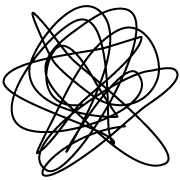
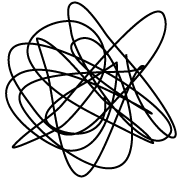
Frontmatter tweaks

diff --git a/static/css/chapters/frontmatter.css b/static/css/chapters/frontmatter.css
@@ -1297,7 +1297,7 @@ html { background: #eaead4 url('../../images/noise.png?1340400763'); }
 
 .enter-prev, .enter-next, .exit-prev, .exit-next { -webkit-animation-timing-function: ease; -moz-animation-timing-function: ease; -ms-animation-timing-function: ease; -o-animation-timing-function: ease; animation-timing-function: ease; }
 
-#home [role="main"] { -webkit-transition: background-position 300ms; -moz-transition: background-position 300ms; -ms-transition: background-position 300ms; -o-transition: background-position 300ms; transition: background-position 300ms; background: url('../../images/frontmatter/home/swing.png?1340400763') no-repeat scroll 0 -310px; background: url('../../images/frontmatter/home/swing.png?1340400763') no-repeat scroll, url('../../images/frontmatter/scribble.png?1340400763') no-repeat scroll; background-position: 0 -310px, right 50em; }
+#home [role="main"] { -webkit-transition: background-position 300ms; -moz-transition: background-position 300ms; -ms-transition: background-position 300ms; -o-transition: background-position 300ms; transition: background-position 300ms; background: url('../../images/frontmatter/home/swing.png?1340400763') no-repeat scroll 0 -310px; background: url('../../images/frontmatter/home/swing.png?1340400763') no-repeat scroll, url('../../images/frontmatter/scribble.png?1345166290') no-repeat scroll; background-position: 0 -310px, right 50em; }
 #home .intro, #home .actions, #home .instructions { overflow: hidden; }
 @media (min-width: 24em) { #home .actions .act { width: 48.78049%; float: left; margin-right: 2.43902%; }
   #home .actions .act:last-child { float: right; margin-right: 0; } }
@@ -1376,62 +1376,65 @@ html { background: #eaead4 url('../../images/noise.png?1340400763'); }
 #title .wrap2:after { content: ""; display: table; clear: both; }
 #title h1, #title h2 { font-weight: bold; }
 #title h1 { font-size: 1.5em; line-height: 1.25em; }
-#title h2 { padding-bottom: 8.125em; margin-bottom: 0.625em; background: url('../../images/frontmatter/scribble.png?1340400763') no-repeat scroll center bottom; }
+#title h2 { padding-bottom: 8.125em; margin-bottom: 0.625em; background: url('../../images/frontmatter/scribble.png?1345166290') no-repeat scroll center bottom; }
 #title a:link, #title a:visited { color: #3e3e81; }
 #title a:hover, #title a:focus, #title a:active { color: #813e81; }
 
-#copyright { background: #813e3e url('../../images/frontmatter/scribble.png?1340400763') no-repeat -3.75em -3.75em; background-image: url('../../images/frontmatter/scribble.png?1340400763'), url('../../images/noise.png?1340400763'), -webkit-linear-gradient(top, rgba(209, 160, 160, 0.25), rgba(209, 160, 160, 0)); background-image: url('../../images/frontmatter/scribble.png?1340400763'), url('../../images/noise.png?1340400763'), -moz-linear-gradient(top, rgba(209, 160, 160, 0.25), rgba(209, 160, 160, 0)); background-image: url('../../images/frontmatter/scribble.png?1340400763'), url('../../images/noise.png?1340400763'), -o-linear-gradient(top, rgba(209, 160, 160, 0.25), rgba(209, 160, 160, 0)); background-image: url('../../images/frontmatter/scribble.png?1340400763'), url('../../images/noise.png?1340400763'), -ms-linear-gradient(top, rgba(209, 160, 160, 0.25), rgba(209, 160, 160, 0)); background-image: url('../../images/frontmatter/scribble.png?1340400763'), url('../../images/noise.png?1340400763'), linear-gradient(top, rgba(209, 160, 160, 0.25), rgba(209, 160, 160, 0)); background-repeat: no-repeat, repeat; background-position: -3.75em -3.75em, 0, 0; color: #f6eded; }
+#copyright { background: #813e3e url('../../images/frontmatter/scribble.png?1345166290') no-repeat -4.375em -4.375em; background-image: url('../../images/frontmatter/scribble.png?1345166290'), url('../../images/noise.png?1340400763'), -webkit-linear-gradient(top, rgba(209, 160, 160, 0.25), rgba(209, 160, 160, 0)); background-image: url('../../images/frontmatter/scribble.png?1345166290'), url('../../images/noise.png?1340400763'), -moz-linear-gradient(top, rgba(209, 160, 160, 0.25), rgba(209, 160, 160, 0)); background-image: url('../../images/frontmatter/scribble.png?1345166290'), url('../../images/noise.png?1340400763'), -o-linear-gradient(top, rgba(209, 160, 160, 0.25), rgba(209, 160, 160, 0)); background-image: url('../../images/frontmatter/scribble.png?1345166290'), url('../../images/noise.png?1340400763'), -ms-linear-gradient(top, rgba(209, 160, 160, 0.25), rgba(209, 160, 160, 0)); background-image: url('../../images/frontmatter/scribble.png?1345166290'), url('../../images/noise.png?1340400763'), linear-gradient(top, rgba(209, 160, 160, 0.25), rgba(209, 160, 160, 0)); background-repeat: no-repeat, repeat; background-position: -4.375em -4.375em, 0, 0; color: #f6eded; overflow: hidden; }
 #copyright [role="main"] { max-width: 34.5em; margin-left: auto; margin-right: auto; padding-left: 0.5em; padding-right: 0.5em; padding-top: 2.5em; padding-bottom: 2.5em; text-shadow: #7f0000 1px 1px 0; text-align: center; }
 #copyright [role="main"]:after { content: ""; display: table; clear: both; }
 #copyright a:link, #copyright a:visited { color: #bfbfff; }
 #copyright a:hover, #copyright a:focus, #copyright a:active { color: #ffbfff; }
-#copyright h1 { font-size: 1.5em; line-height: 1.25em; margin-bottom: 0.83333em; -webkit-border-radius: 3em; -moz-border-radius: 3em; -ms-border-radius: 3em; -o-border-radius: 3em; border-radius: 3em; -webkit-box-shadow: #7f0000 1px 1px 0; -moz-box-shadow: #7f0000 1px 1px 0; box-shadow: #7f0000 1px 1px 0; text-shadow: #7f0000 -1px -1px 0; display: inline-block; padding: 0.41667em 0.83333em; background: #f6eded url('../../images/noise.png?1340400763'); color: #a96f6f; }
+#copyright h1 { font-size: 1.5em; line-height: 1.25em; margin-bottom: 0.83333em; -webkit-border-radius: 3em; -moz-border-radius: 3em; -ms-border-radius: 3em; -o-border-radius: 3em; border-radius: 3em; -webkit-box-shadow: #7f0000 1px 1px 0; -moz-box-shadow: #7f0000 1px 1px 0; box-shadow: #7f0000 1px 1px 0; text-shadow: #7f0000 -1px -1px 0; -webkit-animation: hinge 1s 10s linear both; -moz-animation: hinge 1s 10s linear both; -ms-animation: hinge 1s 10s linear both; -o-animation: hinge 1s 10s linear both; animation: hinge 1s 10s linear both; display: inline-block; padding: 0.41667em 0.83333em; background: #f6eded url('../../images/noise.png?1340400763'); color: #a96f6f; }
 #copyright h1:before, #copyright h1:after { content: "•"; }
 @media (min-width: 40em) { #copyright h1 { font-size: 2.25em; line-height: 1.11111em; margin-bottom: 0.55556em; } }
 #copyright p { margin-bottom: 1.25em; text-align: left; }
 #copyright em { font-style: italic; }
 
-#dedication { background: #ffcc99 url('../../images/frontmatter/scribble.png?1340400763') no-repeat -3.75em -3.75em; background-image: url('../../images/frontmatter/scribble.png?1340400763'), url('../../images/noise.png?1340400763'), -webkit-radial-gradient(center 7.5em, #ffdfbf, #ffcc99, #ffb972); background-image: url('../../images/frontmatter/scribble.png?1340400763'), url('../../images/noise.png?1340400763'), -moz-radial-gradient(center 7.5em, #ffdfbf, #ffcc99, #ffb972); background-image: url('../../images/frontmatter/scribble.png?1340400763'), url('../../images/noise.png?1340400763'), -o-radial-gradient(center 7.5em, #ffdfbf, #ffcc99, #ffb972); background-image: url('../../images/frontmatter/scribble.png?1340400763'), url('../../images/noise.png?1340400763'), -ms-radial-gradient(center 7.5em, #ffdfbf, #ffcc99, #ffb972); background-image: url('../../images/frontmatter/scribble.png?1340400763'), url('../../images/noise.png?1340400763'), radial-gradient(center 7.5em, #ffdfbf, #ffcc99, #ffb972); background-repeat: no-repeat, repeat; background-position: -3.75em -3.75em, 0, 0; color: #606060; }
-#dedication [role="main"] { max-width: 20.5em; margin-left: auto; margin-right: auto; padding-left: 0.5em; padding-right: 0.5em; padding-top: 2.5em; padding-bottom: 2.5em; }
+#dedication { background: #ffcc99 url('../../images/frontmatter/scribble.png?1345166290') no-repeat -4.375em -4.375em; background-image: url('../../images/frontmatter/scribble.png?1345166290'), url('../../images/noise.png?1340400763'), -webkit-radial-gradient(center 7.5em, #ffdfbf, #ffcc99, #ffb972); background-image: url('../../images/frontmatter/scribble.png?1345166290'), url('../../images/noise.png?1340400763'), -moz-radial-gradient(center 7.5em, #ffdfbf, #ffcc99, #ffb972); background-image: url('../../images/frontmatter/scribble.png?1345166290'), url('../../images/noise.png?1340400763'), -o-radial-gradient(center 7.5em, #ffdfbf, #ffcc99, #ffb972); background-image: url('../../images/frontmatter/scribble.png?1345166290'), url('../../images/noise.png?1340400763'), -ms-radial-gradient(center 7.5em, #ffdfbf, #ffcc99, #ffb972); background-image: url('../../images/frontmatter/scribble.png?1345166290'), url('../../images/noise.png?1340400763'), radial-gradient(center 7.5em, #ffdfbf, #ffcc99, #ffb972); background-repeat: no-repeat, repeat; background-position: -4.375em -4.375em, 0, 0; color: #606060; }
+#dedication [role="main"] { max-width: 13.5em; margin-left: auto; margin-right: auto; padding-left: 0.5em; padding-right: 0.5em; padding-top: 2.5em; padding-bottom: 0.625em; }
 #dedication [role="main"]:after { content: ""; display: table; clear: both; }
-@media (min-height: 25em) { #dedication [role="main"] { padding-top: 7.5em; } }
+@media (min-width: 32.25em) { #dedication [role="main"] { max-width: 20.5em; } }
+@media (min-height: 25em) { #dedication [role="main"] { padding-top: 5em; } }
+@media (min-height: 35em) { #dedication [role="main"] { padding-top: 7.5em; } }
 #dedication h1 { font-weight: bold; }
 #dedication p { margin-bottom: 1.25em; }
 
-#contents { background: #ffffe5 url('../../images/frontmatter/scribble.png?1340400763') no-repeat -3.75em -3.75em; background-image: url('../../images/frontmatter/scribble.png?1340400763'), url('../../images/noise.png?1340400763'), -webkit-linear-gradient(260deg, #ffffe5, #ffffe5, #ffdfbf); background-image: url('../../images/frontmatter/scribble.png?1340400763'), url('../../images/noise.png?1340400763'), -moz-linear-gradient(260deg, #ffffe5, #ffffe5, #ffdfbf); background-image: url('../../images/frontmatter/scribble.png?1340400763'), url('../../images/noise.png?1340400763'), -o-linear-gradient(260deg, #ffffe5, #ffffe5, #ffdfbf); background-image: url('../../images/frontmatter/scribble.png?1340400763'), url('../../images/noise.png?1340400763'), -ms-linear-gradient(260deg, #ffffe5, #ffffe5, #ffdfbf); background-image: url('../../images/frontmatter/scribble.png?1340400763'), url('../../images/noise.png?1340400763'), linear-gradient(260deg, #ffffe5, #ffffe5, #ffdfbf); background-repeat: no-repeat, repeat; background-position: -3.75em -3.75em, 0, 0; }
-#contents [role="main"] { max-width: 27.5em; margin-left: auto; margin-right: auto; padding-left: 0.5em; padding-right: 0.5em; padding-top: 2.5em; }
+#contents { background: #ffffe5 url('../../images/frontmatter/scribble.png?1345166290') no-repeat -4.375em -4.375em; background-image: url('../../images/frontmatter/scribble.png?1345166290'), url('../../images/noise.png?1340400763'), -webkit-linear-gradient(260deg, #ffffe5, #ffffe5, #ffdfbf); background-image: url('../../images/frontmatter/scribble.png?1345166290'), url('../../images/noise.png?1340400763'), -moz-linear-gradient(260deg, #ffffe5, #ffffe5, #ffdfbf); background-image: url('../../images/frontmatter/scribble.png?1345166290'), url('../../images/noise.png?1340400763'), -o-linear-gradient(260deg, #ffffe5, #ffffe5, #ffdfbf); background-image: url('../../images/frontmatter/scribble.png?1345166290'), url('../../images/noise.png?1340400763'), -ms-linear-gradient(260deg, #ffffe5, #ffffe5, #ffdfbf); background-image: url('../../images/frontmatter/scribble.png?1345166290'), url('../../images/noise.png?1340400763'), linear-gradient(260deg, #ffffe5, #ffffe5, #ffdfbf); background-repeat: no-repeat, repeat; background-position: -4.375em -4.375em, 0, 0; }
+#contents [role="main"] { max-width: 13.5em; margin-left: auto; margin-right: auto; padding-left: 0.5em; padding-right: 0.5em; padding-top: 2.5em; }
 #contents [role="main"]:after { content: ""; display: table; clear: both; }
+@media (min-width: 48em) { #contents [role="main"] { max-width: 27.5em; } }
 #contents a:link, #contents a:visited { color: #7f4000; }
 #contents a:hover, #contents a:focus, #contents a:active { color: #ff8000; }
 #contents li:before { color: #81813e; }
 #contents .book { font-weight: bold; }
 
-@-moz-keyframes balloons { 0% { opacity: 0; -moz-transform: translateY(50px); transform: translateY(50px); }
+@-moz-keyframes balloons { 0% { opacity: 0; -moz-transform: translateY(100px); transform: translateY(100px); }
   10% { opacity: 1; -moz-transform: translateY(0); transform: translateY(0); }
   75% { opacity: 1; }
-  100% { opacity: 0; -moz-transform: translateY(-500px); transform: translateY(-500px); } }
+  100% { opacity: 0; -moz-transform: translateY(-1000px); transform: translateY(-1000px); } }
 
-@-webkit-keyframes balloons { 0% { opacity: 0; -webkit-transform: translateY(50px); transform: translateY(50px); }
+@-webkit-keyframes balloons { 0% { opacity: 0; -webkit-transform: translateY(100px); transform: translateY(100px); }
   10% { opacity: 1; -webkit-transform: translateY(0); transform: translateY(0); }
   75% { opacity: 1; }
-  100% { opacity: 0; -webkit-transform: translateY(-500px); transform: translateY(-500px); } }
+  100% { opacity: 0; -webkit-transform: translateY(-1000px); transform: translateY(-1000px); } }
 
-@-o-keyframes balloons { 0% { opacity: 0; -o-transform: translateY(50px); transform: translateY(50px); }
+@-o-keyframes balloons { 0% { opacity: 0; -o-transform: translateY(100px); transform: translateY(100px); }
   10% { opacity: 1; -o-transform: translateY(0); transform: translateY(0); }
   75% { opacity: 1; }
-  100% { opacity: 0; -o-transform: translateY(-500px); transform: translateY(-500px); } }
+  100% { opacity: 0; -o-transform: translateY(-1000px); transform: translateY(-1000px); } }
 
-@-ms-keyframes balloons { 0% { opacity: 0; -ms-transform: translateY(50px); transform: translateY(50px); }
+@-ms-keyframes balloons { 0% { opacity: 0; -ms-transform: translateY(100px); transform: translateY(100px); }
   10% { opacity: 1; -ms-transform: translateY(0); transform: translateY(0); }
   75% { opacity: 1; }
-  100% { opacity: 0; -ms-transform: translateY(-500px); transform: translateY(-500px); } }
+  100% { opacity: 0; -ms-transform: translateY(-1000px); transform: translateY(-1000px); } }
 
-@keyframes balloons { 0% { opacity: 0; transform: translateY(50px); }
+@keyframes balloons { 0% { opacity: 0; transform: translateY(100px); }
   10% { opacity: 1; transform: translateY(0); }
   75% { opacity: 1; }
-  100% { opacity: 0; transform: translateY(-500px); } }
+  100% { opacity: 0; transform: translateY(-1000px); } }
 
-#thanks { background: #d4ead4 url('../../images/frontmatter/scribble.png?1340400763') no-repeat -3.75em -3.75em; background: url('../../images/frontmatter/scribble.png?1340400763') no-repeat -3.75em -3.75em, url('../../images/noise.png?1340400763') repeat, -webkit-linear-gradient(top left, #ffffe5, #d4ead4) repeat; background: url('../../images/frontmatter/scribble.png?1340400763') no-repeat -3.75em -3.75em, url('../../images/noise.png?1340400763') repeat, -moz-linear-gradient(top left, #ffffe5, #d4ead4) repeat; background: url('../../images/frontmatter/scribble.png?1340400763') no-repeat -3.75em -3.75em, url('../../images/noise.png?1340400763') repeat, -o-linear-gradient(top left, #ffffe5, #d4ead4) repeat; background: url('../../images/frontmatter/scribble.png?1340400763') no-repeat -3.75em -3.75em, url('../../images/noise.png?1340400763') repeat, -ms-linear-gradient(top left, #ffffe5, #d4ead4) repeat; background: url('../../images/frontmatter/scribble.png?1340400763') no-repeat -3.75em -3.75em, url('../../images/noise.png?1340400763') repeat, linear-gradient(top left, #ffffe5, #d4ead4) repeat; }
+#thanks { background: #d4ead4 url('../../images/frontmatter/scribble.png?1345166290') no-repeat -4.375em -4.375em; background: url('../../images/frontmatter/scribble.png?1345166290') no-repeat -4.375em -4.375em, url('../../images/noise.png?1340400763') repeat, -webkit-linear-gradient(top left, #ffffe5, #d4ead4) repeat; background: url('../../images/frontmatter/scribble.png?1345166290') no-repeat -4.375em -4.375em, url('../../images/noise.png?1340400763') repeat, -moz-linear-gradient(top left, #ffffe5, #d4ead4) repeat; background: url('../../images/frontmatter/scribble.png?1345166290') no-repeat -4.375em -4.375em, url('../../images/noise.png?1340400763') repeat, -o-linear-gradient(top left, #ffffe5, #d4ead4) repeat; background: url('../../images/frontmatter/scribble.png?1345166290') no-repeat -4.375em -4.375em, url('../../images/noise.png?1340400763') repeat, -ms-linear-gradient(top left, #ffffe5, #d4ead4) repeat; background: url('../../images/frontmatter/scribble.png?1345166290') no-repeat -4.375em -4.375em, url('../../images/noise.png?1340400763') repeat, linear-gradient(top left, #ffffe5, #d4ead4) repeat; overflow: hidden; }
 #thanks h1, #thanks h2 { font-weight: bold; }
 #thanks h1 { font-size: 2.25em; line-height: 1.11111em; }
 #thanks [role="main"] { max-width: 20.5em; margin-left: auto; margin-right: auto; padding-left: 0.5em; padding-right: 0.5em; padding-top: 2.5em; }
@@ -1447,14 +1450,14 @@ html { background: #eaead4 url('../../images/noise.png?1340400763'); }
 #thanks ul li:last-child:after { content: '.'; }
 #thanks .collaborators ul li:after { content: ';'; }
 #thanks .collaborators ul li:last-child:after { content: '.'; }
-@media (min-width: 50em) { #thanks .balloon { -webkit-animation: balloons 10s linear infinite both; -moz-animation: balloons 10s linear infinite both; -ms-animation: balloons 10s linear infinite both; -o-animation: balloons 10s linear infinite both; animation: balloons 10s linear infinite both; display: block; position: absolute; width: 120px; height: 360px; }
+@media (min-width: 50em) { #thanks .balloon { -webkit-animation: balloons 15s linear infinite both; -moz-animation: balloons 15s linear infinite both; -ms-animation: balloons 15s linear infinite both; -o-animation: balloons 15s linear infinite both; animation: balloons 15s linear infinite both; display: block; position: absolute; width: 120px; height: 360px; }
   #thanks .balloon:nth-child(1) { background: url('../../images/frontmatter/thanks/balloon1.png?1344560884'); top: 1%; left: 80%; }
-  #thanks .balloon:nth-child(2) { background: url('../../images/frontmatter/thanks/balloon2.png?1344560893'); -webkit-animation-delay: 4s; -moz-animation-delay: 4s; -ms-animation-delay: 4s; -o-animation-delay: 4s; animation-delay: 4s; top: 15%; left: 75%; }
-  #thanks .balloon:nth-child(3) { background: url('../../images/frontmatter/thanks/balloon3.png?1344560900'); -webkit-animation-delay: 2s; -moz-animation-delay: 2s; -ms-animation-delay: 2s; -o-animation-delay: 2s; animation-delay: 2s; top: 8%; right: 87%; }
-  #thanks .balloon:nth-child(4) { background: url('../../images/frontmatter/thanks/balloon4.png?1344560912'); -webkit-animation-delay: 3s; -moz-animation-delay: 3s; -ms-animation-delay: 3s; -o-animation-delay: 3s; animation-delay: 3s; top: 30%; right: 79%; }
-  #thanks .balloon:nth-child(5) { background: url('../../images/frontmatter/thanks/balloon5.png?1344560919'); -webkit-animation-delay: 1s; -moz-animation-delay: 1s; -ms-animation-delay: 1s; -o-animation-delay: 1s; animation-delay: 1s; top: 48%; left: 90%; }
-  #thanks .balloon:nth-child(6) { background: url('../../images/frontmatter/thanks/balloon6.png?1344560925'); -webkit-animation-delay: 6s; -moz-animation-delay: 6s; -ms-animation-delay: 6s; -o-animation-delay: 6s; animation-delay: 6s; top: 62%; right: 92%; }
-  #thanks .balloon:nth-child(7) { background: url('../../images/frontmatter/thanks/balloon7.png?1344560937'); -webkit-animation-delay: 5s; -moz-animation-delay: 5s; -ms-animation-delay: 5s; -o-animation-delay: 5s; animation-delay: 5s; top: 70%; left: 78%; } }
+  #thanks .balloon:nth-child(2) { background: url('../../images/frontmatter/thanks/balloon2.png?1344560893'); -webkit-animation-delay: 8s; -moz-animation-delay: 8s; -ms-animation-delay: 8s; -o-animation-delay: 8s; animation-delay: 8s; -webkit-animation-duration: 10s; -moz-animation-duration: 10s; -ms-animation-duration: 10s; -o-animation-duration: 10s; animation-duration: 10s; top: 15%; left: 75%; }
+  #thanks .balloon:nth-child(3) { background: url('../../images/frontmatter/thanks/balloon3.png?1344560900'); -webkit-animation-delay: 4s; -moz-animation-delay: 4s; -ms-animation-delay: 4s; -o-animation-delay: 4s; animation-delay: 4s; -webkit-animation-duration: 20s; -moz-animation-duration: 20s; -ms-animation-duration: 20s; -o-animation-duration: 20s; animation-duration: 20s; top: 8%; right: 87%; }
+  #thanks .balloon:nth-child(4) { background: url('../../images/frontmatter/thanks/balloon4.png?1344560912'); -webkit-animation-delay: 6s; -moz-animation-delay: 6s; -ms-animation-delay: 6s; -o-animation-delay: 6s; animation-delay: 6s; -webkit-animation-duration: 16s; -moz-animation-duration: 16s; -ms-animation-duration: 16s; -o-animation-duration: 16s; animation-duration: 16s; top: 30%; right: 79%; }
+  #thanks .balloon:nth-child(5) { background: url('../../images/frontmatter/thanks/balloon5.png?1344560919'); -webkit-animation-delay: 2s; -moz-animation-delay: 2s; -ms-animation-delay: 2s; -o-animation-delay: 2s; animation-delay: 2s; -webkit-animation-duration: 20s; -moz-animation-duration: 20s; -ms-animation-duration: 20s; -o-animation-duration: 20s; animation-duration: 20s; top: 48%; left: 90%; }
+  #thanks .balloon:nth-child(6) { background: url('../../images/frontmatter/thanks/balloon6.png?1344560925'); -webkit-animation-delay: 3s; -moz-animation-delay: 3s; -ms-animation-delay: 3s; -o-animation-delay: 3s; animation-delay: 3s; -webkit-animation-duration: 12s; -moz-animation-duration: 12s; -ms-animation-duration: 12s; -o-animation-duration: 12s; animation-duration: 12s; top: 62%; right: 92%; }
+  #thanks .balloon:nth-child(7) { background: url('../../images/frontmatter/thanks/balloon7.png?1344560937'); -webkit-animation-delay: 5s; -moz-animation-delay: 5s; -ms-animation-delay: 5s; -o-animation-delay: 5s; animation-delay: 5s; -webkit-animation-duration: 18s; -moz-animation-duration: 18s; -ms-animation-duration: 18s; -o-animation-duration: 18s; animation-duration: 18s; top: 70%; left: 78%; } }
 
 @-moz-keyframes lightning { 0%, 49%, 51%, 53%, 55%, 57%, 100% { background-position: top left, top left, center -1.25em; }
   50% { background-position: top left, top left, -3.75em -12.5em; }

diff --git a/static/css/novel.css b/static/css/novel.css
@@ -16,13 +16,13 @@ a img { border: none; }
 article, aside, details, figcaption, figure, footer, header, hgroup, menu, nav, section, summary { display: block; }
 
 /* ---------------------------------------------------------------------------- fonts */
-@font-face { font-family: "IcoMoon"; src: url('../fonts/icomoon/IcoMoon.eot'); src: url('../fonts/icomoon/IcoMoon.eot?#iefix') format('eot'), url('../fonts/icomoon/IcoMoon.woff') format('woff'), url('../fonts/icomoon/IcoMoon.ttf') format('truetype'), url('../fonts/icomoon/IcoMoon.svg#IcoMoon') format('svg'); font-weight: normal; font-style: normal; }
+@font-face { font-family: "IcoMoon"; src: url('/icomoon/IcoMoon.eot'); src: url('/icomoon/IcoMoon.eot?#iefix') format('eot'), url('/icomoon/IcoMoon.woff') format('woff'), url('/icomoon/IcoMoon.ttf') format('truetype'), url('/icomoon/IcoMoon.svg#IcoMoon') format('svg'); font-weight: normal; font-style: normal; }
 
-@font-face { font-family: "GreenMudJJRegular"; src: url('../fonts/jj/greenmudjj-regular-webfont.eot'); src: url('../fonts/jj/greenmudjj-regular-webfont.eot?#iefix') format('eot'), url('../fonts/jj/greenmudjj-regular-webfont.woff') format('woff'), url('../fonts/jj/greenmudjj-regular-webfont.ttf') format('truetype'), url('../fonts/jj/greenmudjj-regular-webfont.svg#GreenMudJJRegular') format('svg'); font-weight: normal; font-style: normal; }
+@font-face { font-family: "GreenMudJJRegular"; src: url('/jj/greenmudjj-regular-webfont.eot'); src: url('/jj/greenmudjj-regular-webfont.eot?#iefix') format('eot'), url('/jj/greenmudjj-regular-webfont.woff') format('woff'), url('/jj/greenmudjj-regular-webfont.ttf') format('truetype'), url('/jj/greenmudjj-regular-webfont.svg#GreenMudJJRegular') format('svg'); font-weight: normal; font-style: normal; }
 
-@font-face { font-family: "GreenMudJJRegular"; src: url('../fonts/jj/greenmudjj-italic-webfont.eot'); src: url('../fonts/jj/greenmudjj-italic-webfont.eot?#iefix') format('eot'), url('../fonts/jj/greenmudjj-italic-webfont.woff') format('woff'), url('../fonts/jj/greenmudjj-italic-webfont.ttf') format('truetype'), url('../fonts/jj/greenmudjj-italic-webfont.svg#GreenMudJJRegular') format('svg'); font-weight: normal; font-style: italic; }
+@font-face { font-family: "GreenMudJJRegular"; src: url('/jj/greenmudjj-italic-webfont.eot'); src: url('/jj/greenmudjj-italic-webfont.eot?#iefix') format('eot'), url('/jj/greenmudjj-italic-webfont.woff') format('woff'), url('/jj/greenmudjj-italic-webfont.ttf') format('truetype'), url('/jj/greenmudjj-italic-webfont.svg#GreenMudJJRegular') format('svg'); font-weight: normal; font-style: italic; }
 
-@font-face { font-family: "GreenMudJJRegular"; src: url('../fonts/jj/greenmudjj-bold-webfont.eot'); src: url('../fonts/jj/greenmudjj-bold-webfont.eot?#iefix') format('eot'), url('../fonts/jj/greenmudjj-bold-webfont.woff') format('woff'), url('../fonts/jj/greenmudjj-bold-webfont.ttf') format('truetype'), url('../fonts/jj/greenmudjj-bold-webfont.svg#GreenMudJJRegular') format('svg'); font-weight: bold; font-style: normal; }
+@font-face { font-family: "GreenMudJJRegular"; src: url('/jj/greenmudjj-bold-webfont.eot'); src: url('/jj/greenmudjj-bold-webfont.eot?#iefix') format('eot'), url('/jj/greenmudjj-bold-webfont.woff') format('woff'), url('/jj/greenmudjj-bold-webfont.ttf') format('truetype'), url('/jj/greenmudjj-bold-webfont.svg#GreenMudJJRegular') format('svg'); font-weight: bold; font-style: normal; }
 
 /* ---------------------------------------------------------------------------- root */
 @-moz-keyframes flash { 0% { opacity: 1; }
@@ -1210,7 +1210,7 @@ article, aside, details, figcaption, figure, footer, header, hgroup, menu, nav, 
 
 html { font-size: 150%; line-height: 1.25em; }
 
-html { background: gray url('../images/noise.png?1340400763'); font-family: "GreenMudJJRegular", sans-serif; color: #606060; overflow-x: hidden; }
+html { background: gray url('noise.png?1340400763'); font-family: "GreenMudJJRegular", sans-serif; color: #606060; overflow-x: hidden; }
 
 .jj, .susy, .narrator { font-family: "GreenMudJJRegular", sans-serif; }
 
@@ -1312,7 +1312,7 @@ a:hover, a:focus, a:active { color: magenta; }
 .next { float: right; }
 
 [class^="toc-"] { margin-bottom: 1.25em; }
-@media (min-width: 32em) { [class^="toc-"] { width: 49.09091%; float: left; margin-right: 1.81818%; }
+@media (min-width: 48em) { [class^="toc-"] { width: 49.09091%; float: left; margin-right: 1.81818%; }
   [class^="toc-"]:last-child { float: right; margin-right: 0; } }
 
 #toc { overflow: hidden; background: #202020; color: gray; -webkit-transition: max-height 600ms ease; -moz-transition: max-height 600ms ease; -ms-transition: max-height 600ms ease; -o-transition: max-height 600ms ease; transition: max-height 600ms ease; max-height: 0; }

diff --git a/sass/chapters/frontmatter/_thanks.scss b/sass/chapters/frontmatter/_thanks.scss
@@ -15,12 +15,13 @@ $balloons     : image-url('#{$pg}balloon1.png'),
                 image-url('#{$pg}balloon6.png'),
                 image-url('#{$pg}balloon7.png');
 
-$scribble     : image-url($scribble) no-repeat rhythm(-3) rhythm(-3);
+$scribble     : image-url($scribble) no-repeat $scribble-pos;
+;
 
 @include keyframes(balloons) {
   0% {
     @include opacity(0);
-    @include translateY(50px);
+    @include translateY(100px);
   }
   10% {
     @include opacity(1);
@@ -29,7 +30,7 @@ $scribble     : image-url($scribble) no-repeat rhythm(-3) rhythm(-3);
   75% { @include opacity(1); }
   100% {
     @include opacity(0);
-    @include translateY(-500px);
+    @include translateY(-1000px);
   }
 }
 
@@ -37,6 +38,7 @@ $scribble     : image-url($scribble) no-repeat rhythm(-3) rhythm(-3);
   @extend %type;
   @include background($bg $scribble);
   @include background($scribble, $noise repeat, $bg-grad repeat);
+  overflow: hidden;
 
   h1, h2 { font-weight: bold; }
   h1 {
@@ -75,7 +77,7 @@ $scribble     : image-url($scribble) no-repeat rhythm(-3) rhythm(-3);
 
   @include breakpoint(50em) {
     .balloon {
-      @include animation(balloons 10s linear infinite both);
+      @include animation(balloons 15s linear infinite both);
       display: block;
       position: absolute;
       width: image-width('#{$pg}balloon1.png');
@@ -88,32 +90,38 @@ $scribble     : image-url($scribble) no-repeat rhythm(-3) rhythm(-3);
             left: 80%;
           }
           @if $i == 2 {
-            @include animation-delay(4s);
+            @include animation-delay(8s);
+            @include animation-duration(10s);
             top: 15%;
             left: 75%;
           }
           @if $i == 3 {
-            @include animation-delay(2s);
+            @include animation-delay(4s);
+            @include animation-duration(20s);
             top: 8%;
             right: 87%;
           }
           @if $i == 4 {
-            @include animation-delay(3s);
+            @include animation-delay(6s);
+            @include animation-duration(16s);
             top: 30%;
             right: 79%;
           }
           @if $i == 5 {
-            @include animation-delay(1s);
+            @include animation-delay(2s);
+            @include animation-duration(20s);
             top: 48%;
             left: 90%;
           }
           @if $i == 6 {
-            @include animation-delay(6s);
+            @include animation-delay(3s);
+            @include animation-duration(12s);
             top: 62%;
             right: 92%;
           }
           @if $i == 7 {
             @include animation-delay(5s);
+            @include animation-duration(18s);
             top: 70%;
             left: 78%;
           }

diff --git a/sass/chapters/frontmatter/_copyright.scss b/sass/chapters/frontmatter/_copyright.scss
@@ -10,7 +10,7 @@ $shadow-color   : $red-darker;
 $shadow         : $shadow-color 1px 1px 0;
 
 $bg-grad        : linear-gradient(top, rgba($highlight,.25), rgba($highlight,0));
-$scribble-pos    : rhythm(-3) rhythm(-3);
+$scribble-pos   : rhythm(-3.5) rhythm(-3.5);
 
 #copyright {
   @include background($bg image-url($scribble) no-repeat $scribble-pos);
@@ -18,6 +18,7 @@ $scribble-pos    : rhythm(-3) rhythm(-3);
   background-repeat: no-repeat, repeat;
   background-position: $scribble-pos, 0, 0;
   color: $color;
+  overflow: hidden;
 
   [role="main"] {
     @include container;
@@ -42,6 +43,7 @@ $scribble-pos    : rhythm(-3) rhythm(-3);
     @include border-radius(3em);
     @include box-shadow($shadow);
     @include text-shadow($shadow-color -1px -1px 0);
+    @include animation(hinge 1s 10s linear both);
     display: inline-block;
     padding: rhythm(.5,$largepx) rhythm(1,$largepx);
     background: $color $noise;

diff --git a/sass/chapters/frontmatter/_dedication.scss b/sass/chapters/frontmatter/_dedication.scss
@@ -1,7 +1,8 @@
 // ----------------------------------------------------------------------------
 // dedication
 
-$total-columns: 6;
+$total-columns: 4;
+$break: 6;
 
 $bg     : $orange-lighter;
 $color  : $base;
@@ -15,12 +16,11 @@ $bg-grad   : radial-gradient(center rhythm(6), $orange-lightest, $orange-lighter
   color: $color;
 
   [role="main"] {
-    @include container;
+    @include container($total-columns, $break);
     @include padding-leader(2);
-    @include padding-trailer(2);
-    @include breakpoint(min-height 25em) {
-      @include padding-leader(6);
-    }
+    @include padding-trailer(.5);
+    @include breakpoint(min-height 25em) { @include padding-leader(4); }
+    @include breakpoint(min-height 35em) { @include padding-leader(6); }
   }
 
   h1 { font-weight: bold; }

diff --git a/sass/chapters/frontmatter/_contents.scss b/sass/chapters/frontmatter/_contents.scss
@@ -1,7 +1,7 @@
 // ----------------------------------------------------------------------------
 // contents
 
-$total-columns: 8;
+$total-columns: $toc-cols;
 
 $bg           : $yellow-hint;
 $bg-grad      : linear-gradient(260deg, $yellow-hint, $yellow-hint, $orange-lightest);
@@ -14,7 +14,7 @@ $bg-grad      : linear-gradient(260deg, $yellow-hint, $yellow-hint, $orange-ligh
   background-position: $scribble-pos, 0, 0;
 
   [role="main"] {
-    @include container;
+    @include container($total-columns, $toc-break $toc-cols*2);
     @include padding-leader(2);
   }
 

diff --git a/sass/modules/_toc.scss b/sass/modules/_toc.scss
@@ -1,12 +1,14 @@
 // ----------------------------------------------------------------------------
 // contents
 
+$toc-break: round(absolute-ems($toc-break));
+
 [class^="toc-"] {
   @include trailer;
   .book, li { @extend %ellipsis; }
-  @include breakpoint(32em) {
-    @include span-columns(4,$total-columns);
-    &:last-child { @include omega; }
+  @include breakpoint($toc-break) {
+    @include span-columns($toc-cols,$total-columns);
+    @include nth-omega(last);
   }
 }
 

diff --git a/sass/helpers/_template.scss b/sass/helpers/_template.scss
@@ -4,6 +4,9 @@
 $total-columns  : 6;
 $break          : 10;
 
+$toc-break: 32em;
+$toc-cols: 4;
+
 $bg-color       : $off-green-hint;
 $noise          : image-url('noise.png');
 $background     : $bg-color $noise;
